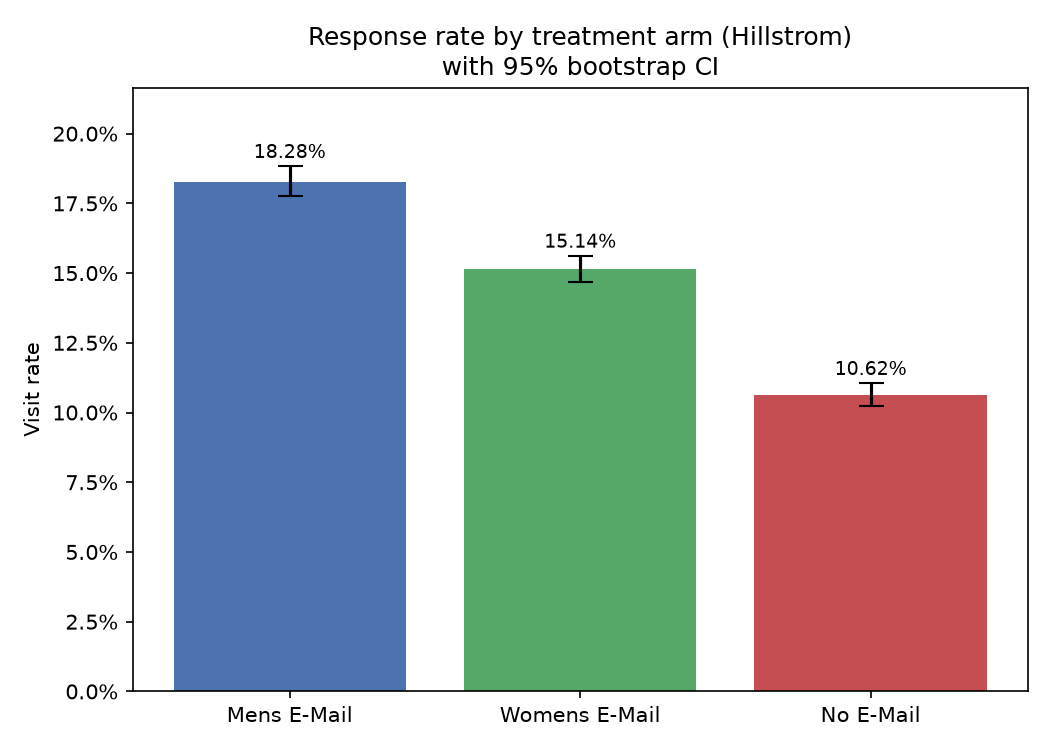
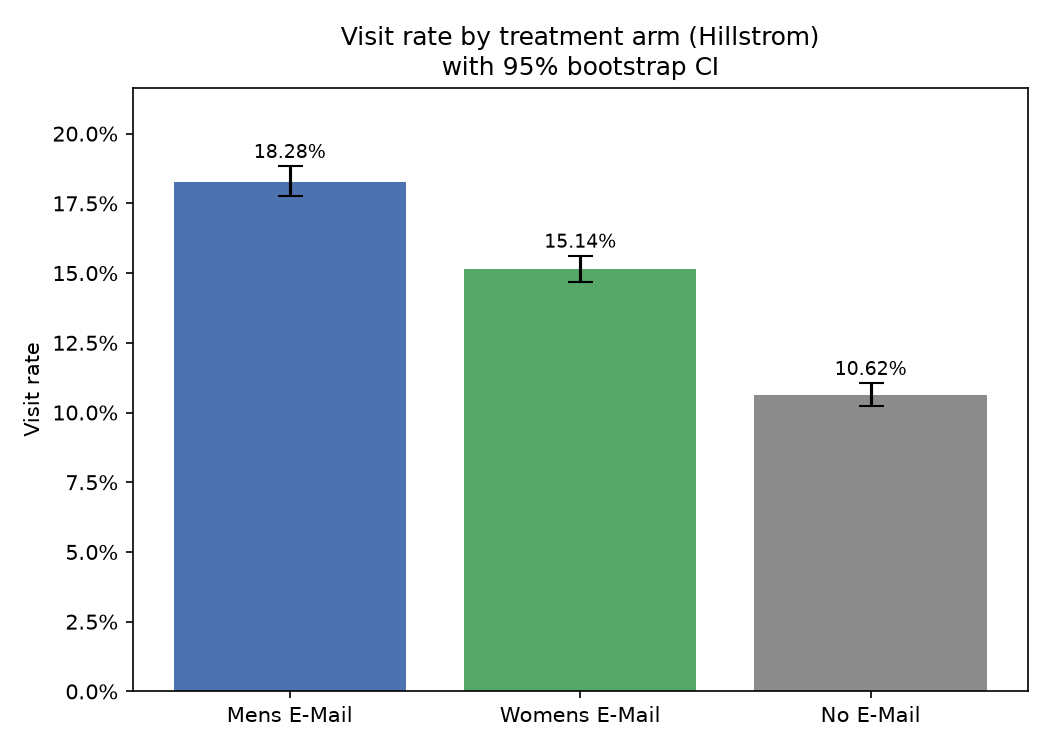
T20: Address review feedback

Changed region(s): [[0.701, 0.5213, 0.9448, 0.92], [0.2743, 0.0307, 0.8229, 0.0613]]

diff --git a/scripts/figures/response_by_arm.py b/scripts/figures/response_by_arm.py
@@ -1,12 +1,13 @@
 """
-T20: response rate by treatment arm, with bootstrap confidence intervals.
+T20: visit rate by treatment arm, with bootstrap confidence intervals.
 
-Response metric: `visit` (per Spec Section 22 — the recommended development
+Response metric: `visit` (per Spec Section 22 -- the recommended development
 target, far more stable than `conversion` at this sample size).
 
-This script is the single source of truth for the committed figure.
-Nothing in notebooks/ is imported here, and the figure is never
-hand-exported from a notebook cell (repository rule, per T20's issue).
+This script is the single source of truth for the committed figure: it
+prints the numbers and saves the figure. The interpretation of the chart
+lives in one place only, the notebook markdown under the chart.
+Nothing in notebooks/ is imported here.
 """
 
 from pathlib import Path
@@ -15,12 +16,14 @@ import matplotlib.pyplot as plt
 import numpy as np
 import pandas as pd
 
-HILLSTROM_PATH = Path("data/raw/hillstrom.csv")
-OUTPUT_PATH = Path("reports/figures/response_by_arm.png")
+ROOT = Path(__file__).resolve().parents[2]
+HILLSTROM_PATH = ROOT / "data" / "raw" / "hillstrom.csv"
+OUTPUT_PATH = ROOT / "reports" / "figures" / "response_by_arm.png"
 
 RESPONSE_COL = "visit"
 ARM_COL = "segment"
 ARM_ORDER = ["Mens E-Mail", "Womens E-Mail", "No E-Mail"]
+ARM_COLORS = ["#4C72B0", "#55A868", "#8C8C8C"]  # control in neutral grey
 
 N_BOOTSTRAP = 2000
 CI_LOW, CI_HIGH = 2.5, 97.5
@@ -79,10 +82,11 @@ def main():
         rates,
         yerr=[err_low, err_high],
         capsize=6,
-        color=["#4C72B0", "#55A868", "#C44E52"],
+        color=ARM_COLORS,
     )
-    ax.set_ylabel(f"{RESPONSE_COL.capitalize()} rate")
-    ax.set_title("Response rate by treatment arm (Hillstrom)\nwith 95% bootstrap CI")
+    rate_label = f"{RESPONSE_COL.capitalize()} rate"
+    ax.set_ylabel(rate_label)
+    ax.set_title(f"{rate_label} by treatment arm (Hillstrom)\nwith 95% bootstrap CI")
     ax.yaxis.set_major_formatter(lambda y, _: f"{y:.1%}")
 
     # Headroom based on the tallest CI, not the tallest bar -- an arbitrary
@@ -103,29 +107,8 @@ def main():
     fig.tight_layout()
     OUTPUT_PATH.parent.mkdir(parents=True, exist_ok=True)
     fig.savefig(OUTPUT_PATH, dpi=150)
-    print(f"\nSaved: {OUTPUT_PATH}")
-
-    # The two sentences, derived from the computed results -- not assumed.
-    # Whichever arm actually has the highest rate drives the first sentence,
-    # so this stays correct even if the data or arm ordering changes.
-    best = max(results, key=lambda r: r["rate"])
-    control = next(r for r in results if r["arm"] == "No E-Mail")
-
-    print("\nWhat a response model would conclude:")
-    print(
-        f"The {best['arm']} arm has the highest {RESPONSE_COL} rate "
-        f"({best['rate']:.2%}), so a response model would rank those "
-        f"customers highest and target them."
-    )
-    print("\nWhy that does not tell us who to send the email to:")
-    print(
-        f"This chart shows who responded, not whose response was CAUSED by "
-        f"the email. The {control['arm']} (control) arm still shows a "
-        f"{control['rate']:.2%} {RESPONSE_COL} rate with no email at all -- "
-        f"so part of every arm's rate would have happened regardless of "
-        f"treatment. Only the gap against this control arm, not the raw "
-        f"rate, estimates the email's actual effect."
-    )
+    # Print the repo-relative path so no local machine path leaks into outputs.
+    print(f"\nSaved: {OUTPUT_PATH.relative_to(ROOT)}")
 
 
 if __name__ == "__main__":
